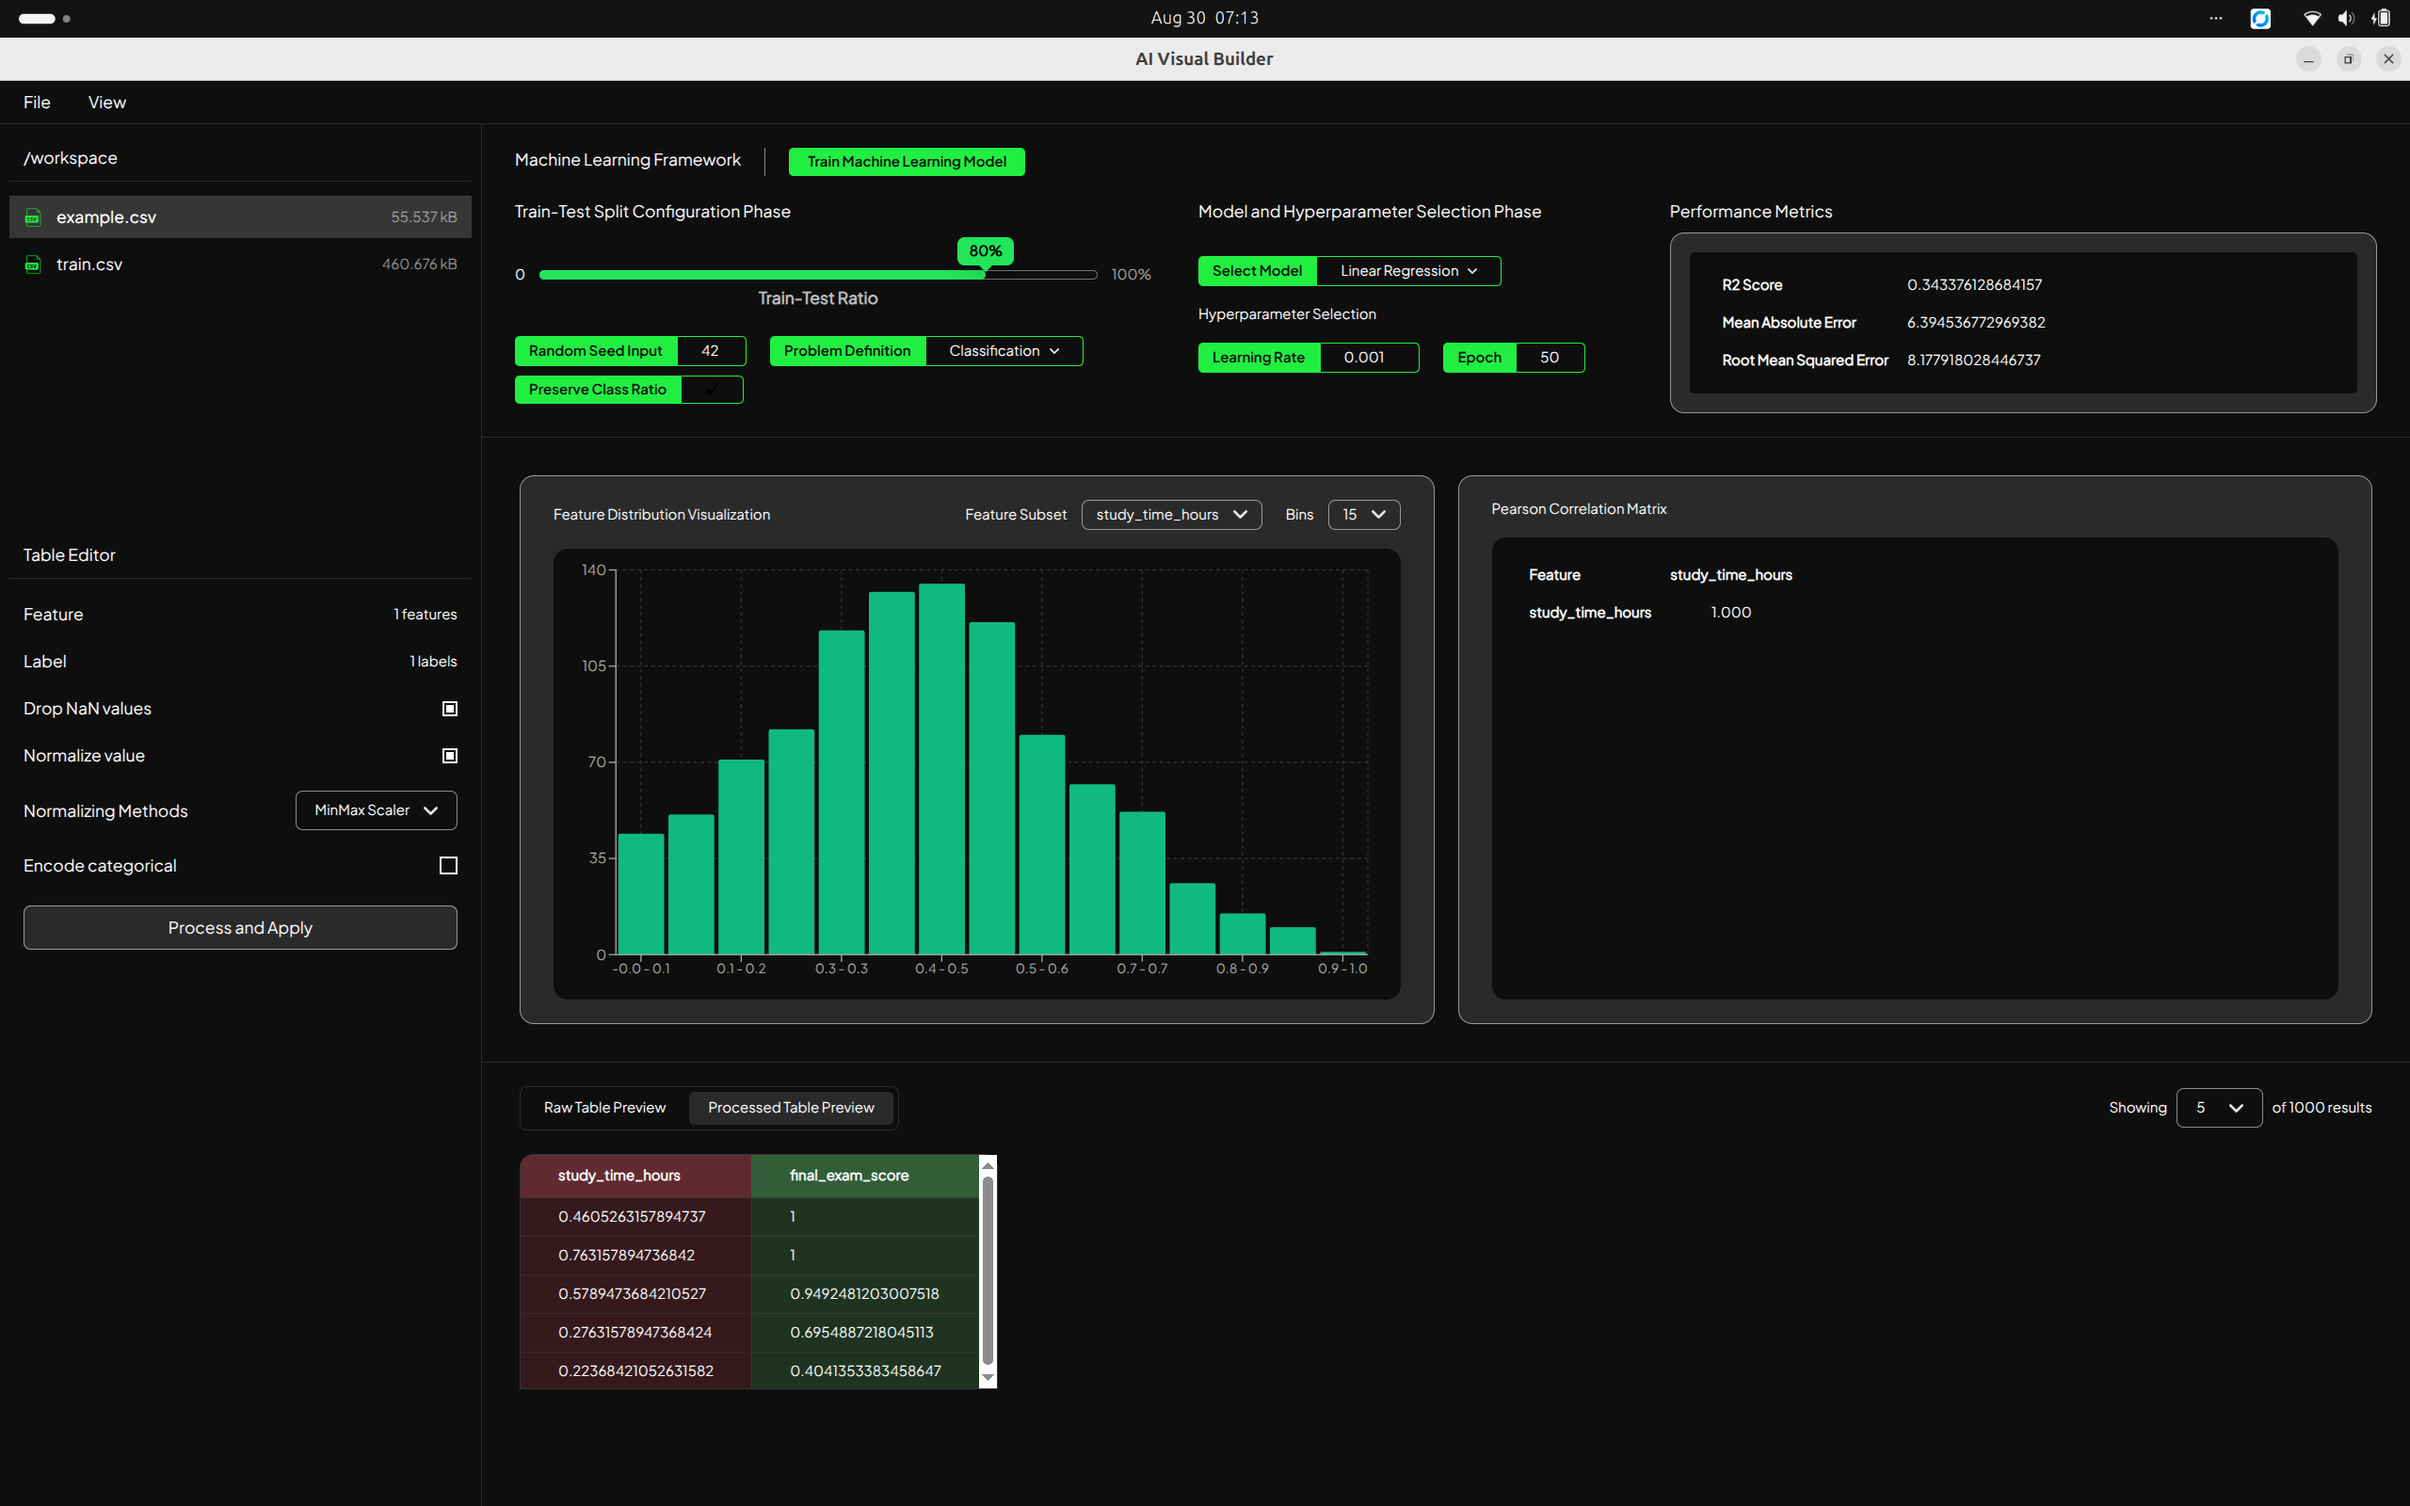
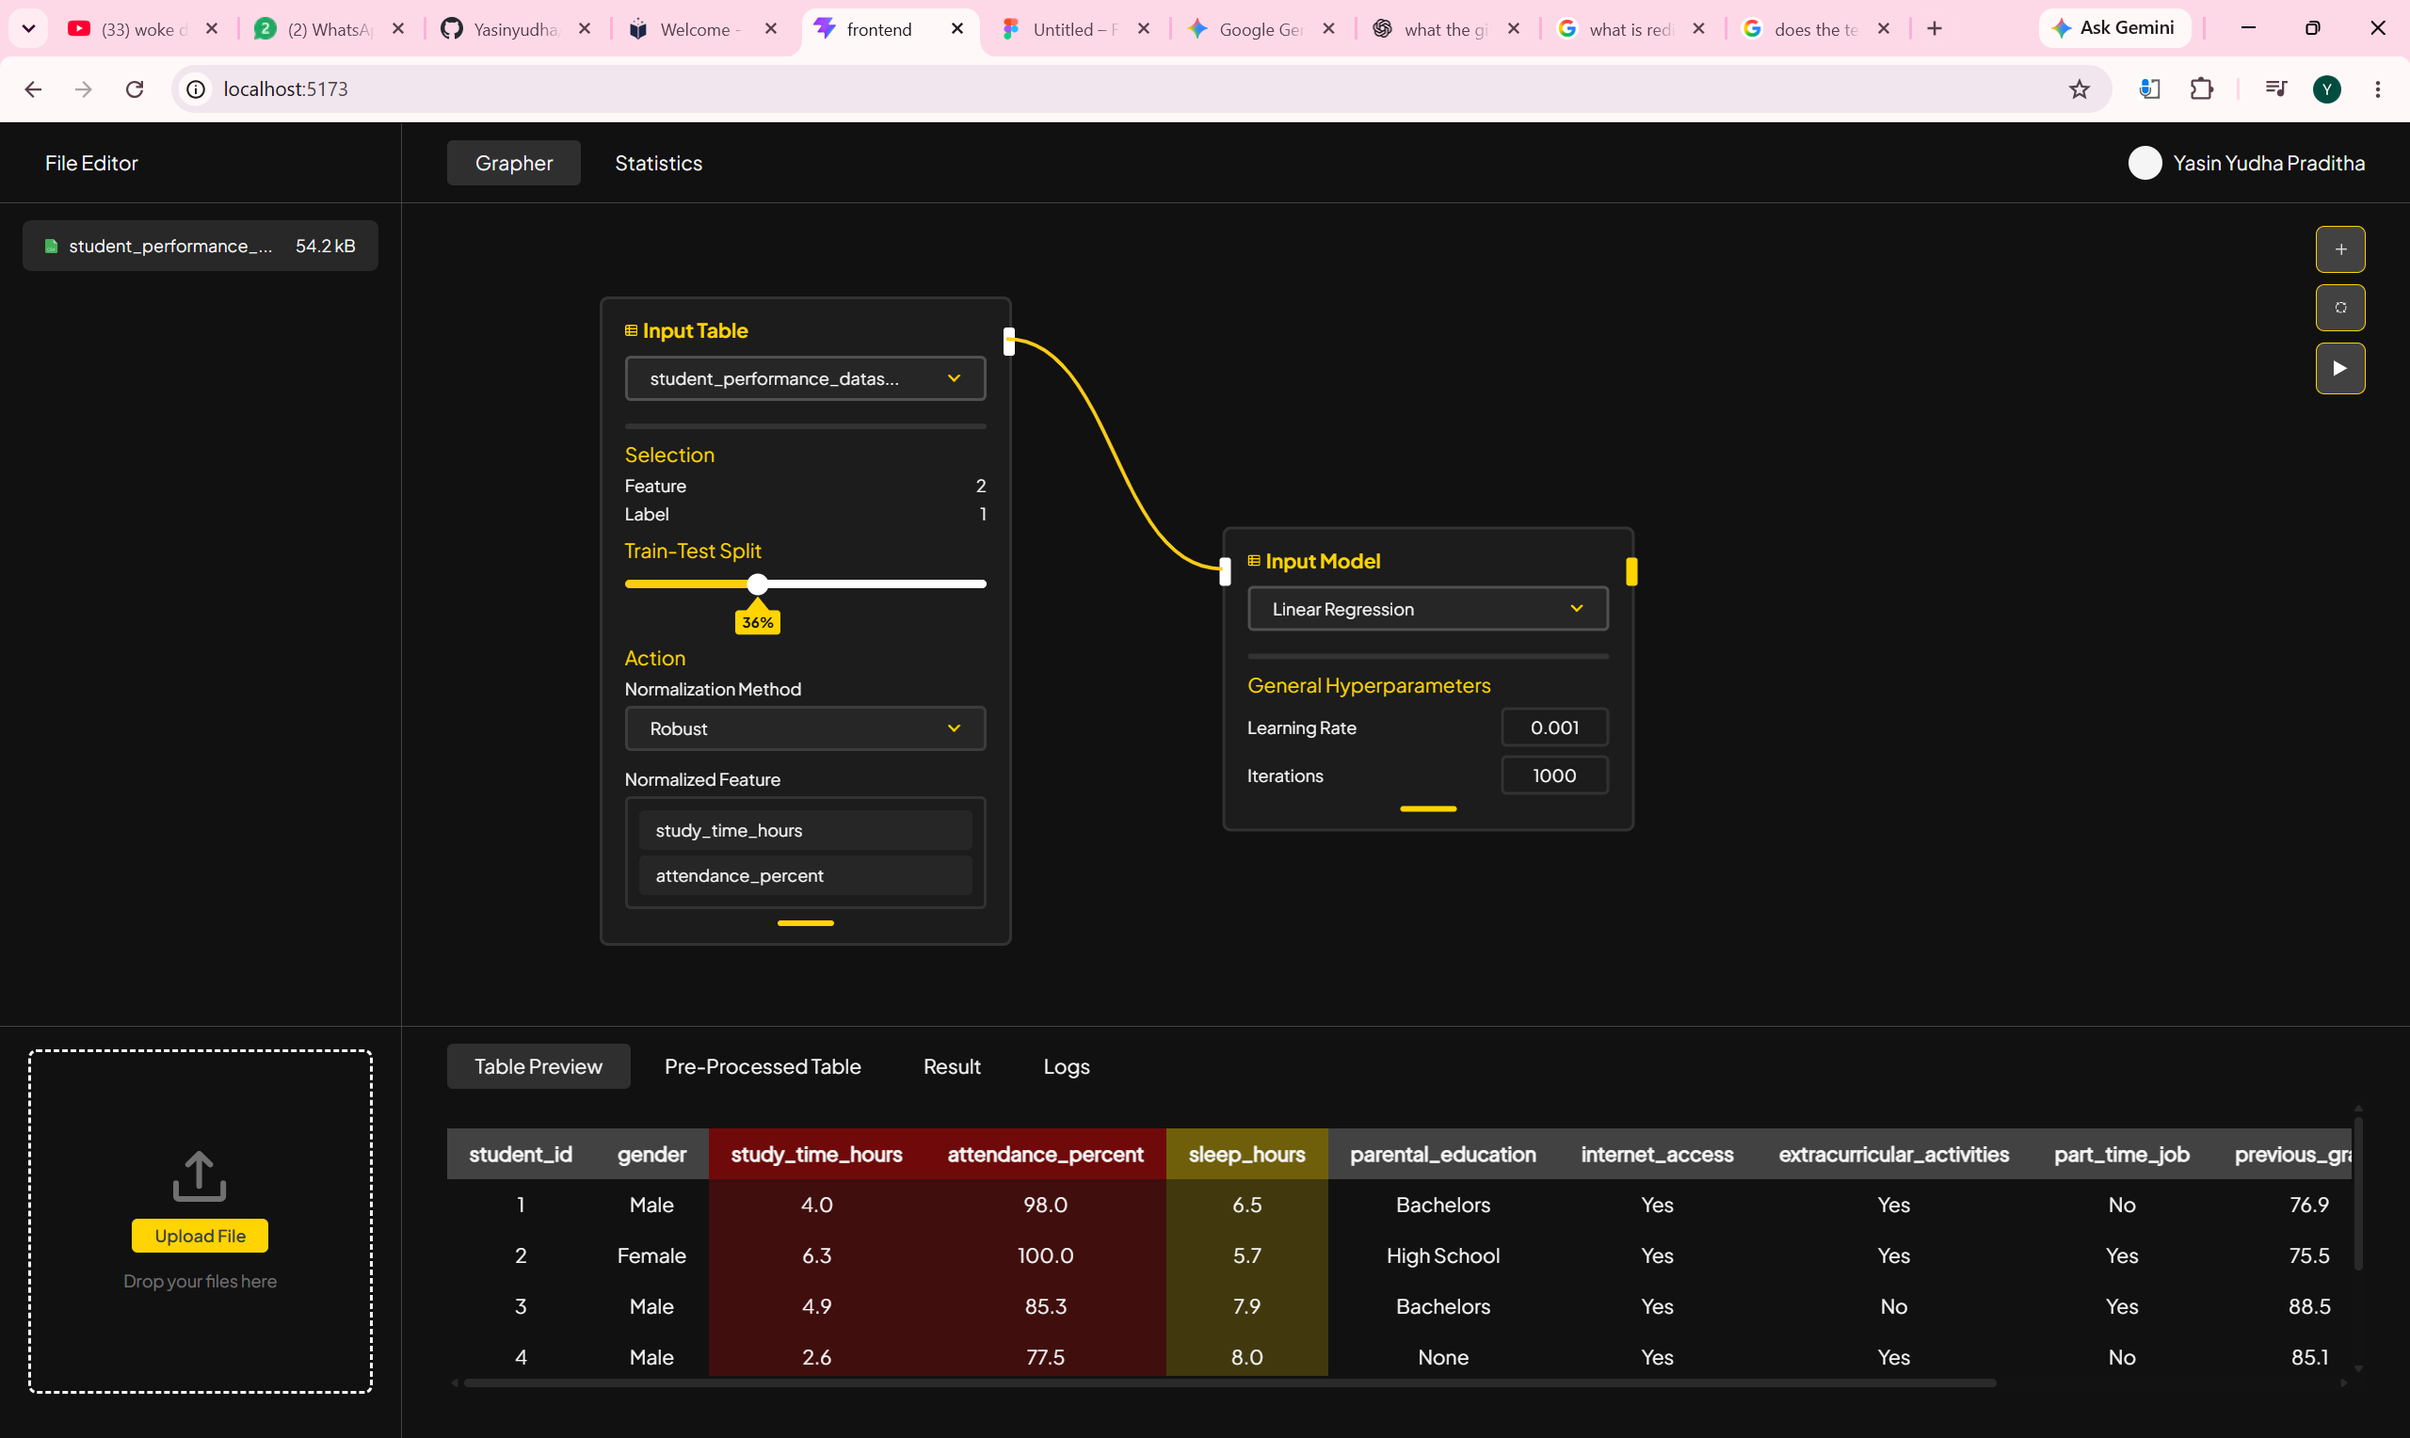
change readme

diff --git a/README.md b/README.md
@@ -1,36 +1,32 @@
-# Welcome Fellas
+# VisualML Studio
 
-Welcome to the AI Visual Builder app. This open-source tool simplifies the development of Machine Learning, Deep Learning, and general AI applications. The project is currently in version 1.0.0 and actively welcoming improvements.
+Build, train, and evaluate Machine Learning, Deep Learning, and general generative AI models visually with no coding required.
 
-This project is open to everyone, and anyone can use it freely. We invite you to contribute and help us make a meaningful impact!
+Our platform is an open-source platform designed to simplify AI development for everyone. Currently in v1.0.0, the project is completely free to use and actively evolving. We warmly welcome community contributions to help us make a meaningful impact.
 
 # App Overview
 
-The app is divided into four main sections: the sidebar (which includes the Visual Studio Code-style Workspace Editor and Table Editor), the Data Preview (showing raw and processed tables), Statistics, and Training and Evaluation.
+Our platform is a powerful, node-based visual programming environment designed to democratize AI development. Whether you're a data science student, a researcher, or a developer looking to prototype quickly, this app allows you to construct end-to-end data pipelines and train predictive models through an intuitive drag-and-drop node interface.
+
+Our platform simplifies the development of preprocessing scripts and complex configuration workflows through an intuitive visual interface. Users can seamlessly connect multiple data sources, configure and fine-tune model hyperparameters, customize preprocessing pipelines, and monitor execution results in real time—all without the need to manually manage complicated configuration files.
 
 ![alt text](./src/renderer/assets/image-readme/img-1.png)
 
-## The Sidebar Section
+# Key Features
 
-The sidebar contains the Workspace Editor and Table Editor. Like Visual Studio Code, the Workspace Editor allows users to open project directories. Currently, the app only supports CSV files, which are previewed in the raw data viewer where users can select feature and label columns. Multi-feature and multi-label selections are supported, though current modeling is limited to linear regression. In the Table Editor, users can preprocess the feature columns by enabling missing value removal (dropna), choosing a normalization method, and applying non-numeric data encoding (such as one-hot or ordinal encoding).
+1. Node-Based Pipeline Architecture
+2. Upload CSV and tabular datasets directly into the workspace
+3. Real-time Table Preview and Pre-Processed Table inspectors to track data transformations at every step
+4. Effortlessly define Features and Labels
+5. Configure Train-Test Split ratios using interactive sliders
+6. Apply data scaling and normalization techniques (Robust, Standard, Min-Max)
+7. Choose from a variety of built-in machine learning algorithms (Linear Regression, Logistic Regression, etc.)
+8. Fine-tune core hyperparameters like Learning Rate and Iterations on the fly
+9. Dedicated Grapher and Statistics tabs to visualize model performance and training dynamics
+10. Live execution Logs for debugging and tracking pipeline runs
 
-## Table Preview Section
+# Tech Stack
 
-This section previews the raw data selected in the Workspace Editor, as well as the processed data. Features selected by the user are highlighted in red, while selected labels are highlighted in green. Although the previews display only 5 to 20 rows, the total row count for each table is shown.
-
-## Statistics Section
-
-Currently, this section features interactive distributions and a Pearson correlation matrix for chosen features. Users can adjust histogram bin counts from 5 to 30 to help analyze key features and target labels prior to training.
-
-## Train and Evaluation Section
-
-This section enables users to train models and evaluate performance. Users can configure the train-test split ratio, set a random seed, define the Machine Learning task type (classification or regression), maintain class ratios (stratification), select a model, and tune hyperparameters. Once training is complete, the evaluation metrics are displayed: classification tasks show accuracy, precision, recall, and F1-score, while regression tasks display the relevant error metrics.
-
-# Other Important Notes
-
-The app uses an Electron framework with a React frontend and a Python backend. Contributions are welcome. Feel free to fork the project and open a pull request.
-
-## How to Run This Project as Development?
-
-1. Run `npm run dev`
-2. Run `server.py` in backend directory
+- Frontend: React, Tailwind CSS
+- Backend: Django
+- Storage: Supabase
